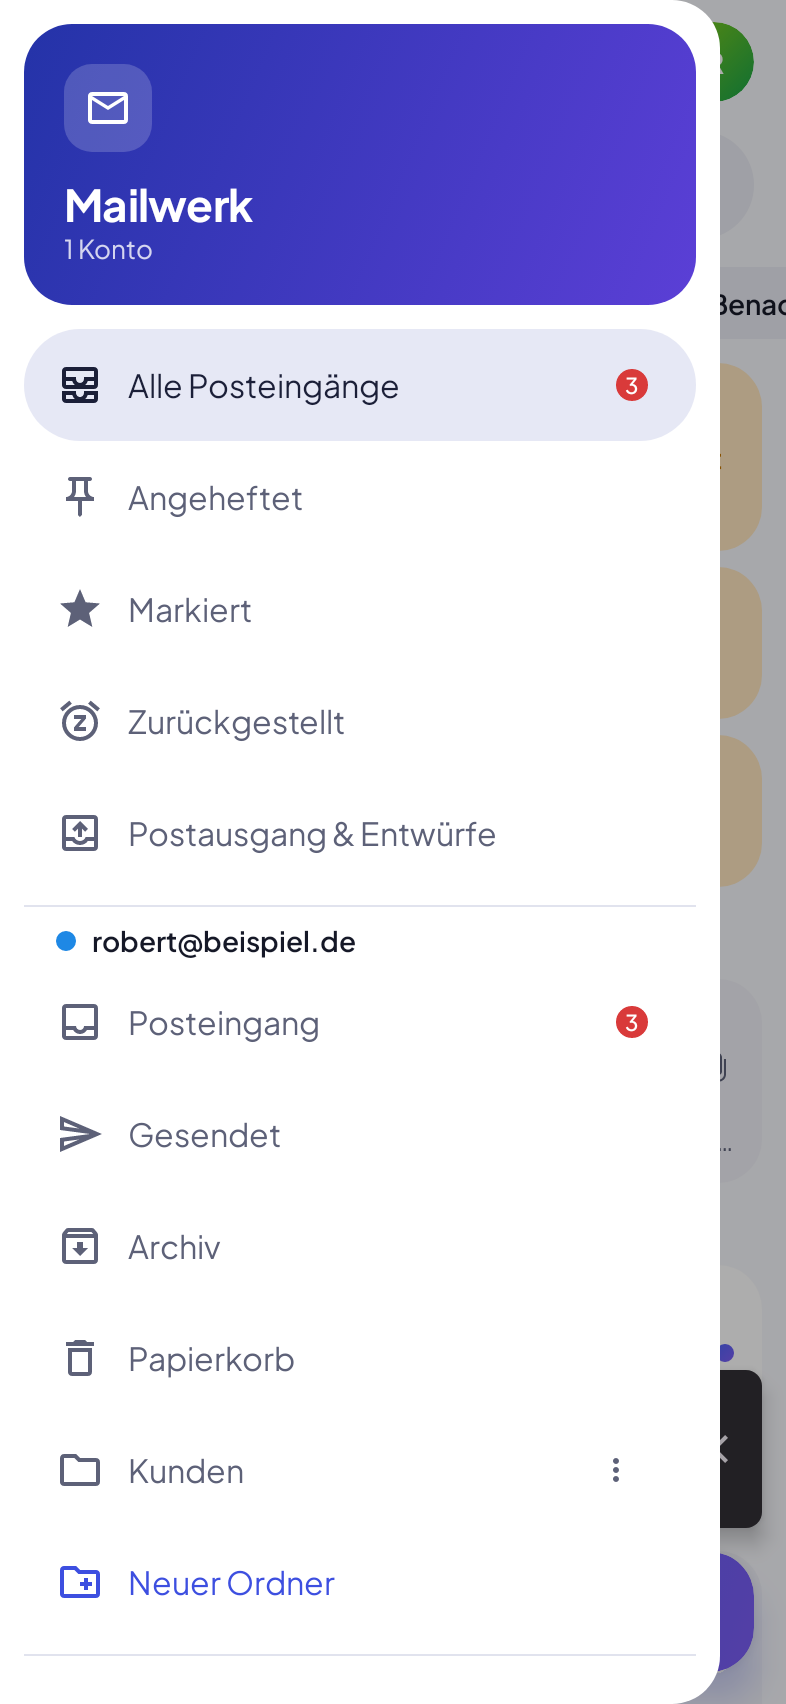
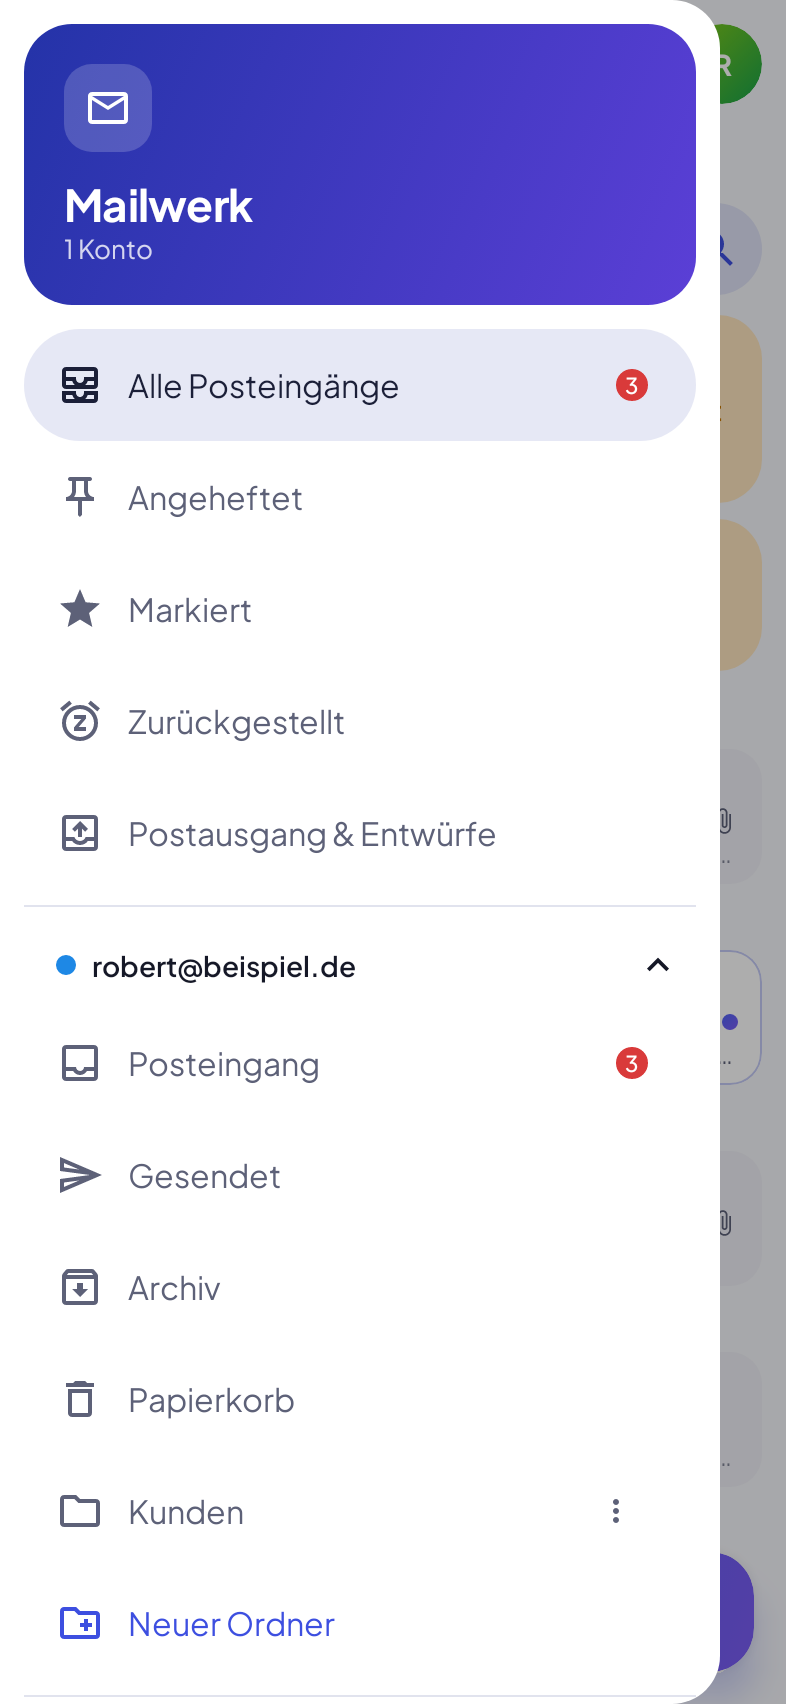
Mailwerk 1.16: einklappbare Postfächer, weiche Wisch-Animation
- Menü: Postfach-Kopf antippen klappt die Ordner auf/zu (Pfeil dreht sich, Zustand wird gemerkt,
  eingeklappt zeigt die Zahl ungelesener Mails)
- Wischen zum Archivieren/Löschen: Karte gleitet ganz hinaus, schrumpft weich zusammen, danach rutschen
  die Mails darunter geschmeidig nach (animateItem mit stabilen Schlüsseln)
- Bleibt eine Mail doch in der Liste (Rückgängig/Fehler), erscheint sie wieder
- Tests für Wischen und Einklappen

Claude-Session: https://claude.ai/code/session_01VgMNm1rcJQaJgFLHMSMcWu

diff --git a/mailwerk/app/src/main/java/app/mailwerk/ui/InboxScreen.kt b/mailwerk/app/src/main/java/app/mailwerk/ui/InboxScreen.kt
@@ -1,5 +1,14 @@
 package app.mailwerk.ui
 
+import androidx.compose.foundation.layout.fillMaxWidth
+import androidx.compose.material3.Badge
+import androidx.compose.runtime.LaunchedEffect
+import androidx.compose.ui.graphics.graphicsLayer
+import androidx.compose.material.icons.outlined.ExpandMore
+import androidx.compose.animation.core.FastOutSlowInEasing
+import androidx.compose.animation.core.Spring
+import androidx.compose.animation.core.spring
+import androidx.compose.animation.core.tween
 import app.mailwerk.tr
 
 import androidx.compose.foundation.ExperimentalFoundationApi
@@ -141,14 +150,18 @@ fun InboxScreen(vm: MainViewModel, snackHost: SnackbarHostState) {
                     else if (threads.isEmpty()) EmptyState(mailbox, category, query)
                     else LazyColumn(Modifier.fillMaxSize(), state = listState, contentPadding = PaddingValues(start = 12.dp, end = 12.dp, top = 4.dp, bottom = 110.dp)) {
                         var lastSection = ""
+                        val used = HashSet<String>()
+                        // stabile, eindeutige Schlüssel -> Einträge rutschen beim Entfernen geschmeidig nach
+                        fun uniq(k: String, idx: Int) = if (used.add(k)) k else "$k#$idx".also { used.add(it) }
                         threads.forEachIndexed { idx, t ->
                             val section = if (t.pinned) tr("Angeheftet") else sectionOf(t.latest.date)
                             if (section != lastSection) {
                                 lastSection = section
-                                item(key = "h_${idx}_$section") { SectionHeader(section) }
+                                item(key = uniq("h_$section", idx)) { Box(Modifier.animateItem(fadeInSpec = tween(220), placementSpec = spring(stiffness = Spring.StiffnessMediumLow), fadeOutSpec = tween(180))) { SectionHeader(section) } }
                             }
-                            item(key = t.latest.threadKey + t.latest.id) {
-                                SwipeRow(vm, t, onSnooze = { snoozeFor = it }) {
+                            item(key = uniq("m_${t.latest.id}", idx)) {
+                                SwipeRow(vm, t, Modifier.animateItem(fadeInSpec = tween(220), placementSpec = spring(stiffness = Spring.StiffnessMediumLow), fadeOutSpec = tween(180)),
+                                    onSnooze = { snoozeFor = it }) {
                                     ThreadRow(t, showAccount = accounts.size > 1 && mailbox !is Mailbox.InFolder, vm,
                                         onClick = { vm.push(Screen.Thread(t.latest.threadKey)) },
                                         onLong = { actionsFor = t.latest })
@@ -468,30 +481,50 @@ private fun EmptyState(mb: Mailbox, cat: Category?, q: String) {
 
 @OptIn(ExperimentalMaterial3Api::class)
 @Composable
-private fun SwipeRow(vm: MainViewModel, t: ThreadSummary, onSnooze: (Message) -> Unit, content: @Composable () -> Unit) {
+private fun SwipeRow(vm: MainViewModel, t: ThreadSummary, modifier: Modifier, onSnooze: (Message) -> Unit, content: @Composable () -> Unit) {
     val right = vm.prefs.swipeRight; val left = vm.prefs.swipeLeft
+    // Aktionen, bei denen die Mail die Liste verlässt: ganz hinausgleiten, dann zusammenschrumpfen lassen
+    fun leaves(a: SwipeAction) = a == SwipeAction.ARCHIVE || a == SwipeAction.DELETE
+    var pending by remember { mutableStateOf<SwipeAction?>(null) }
     val state = rememberSwipeToDismissBoxState(confirmValueChange = { v ->
-        when (v) {
-            SwipeToDismissBoxValue.StartToEnd -> vm.performSwipe(right, t.latest, onSnooze)
-            SwipeToDismissBoxValue.EndToStart -> vm.performSwipe(left, t.latest, onSnooze)
-            else -> {}
+        val action = when (v) { SwipeToDismissBoxValue.StartToEnd -> right; SwipeToDismissBoxValue.EndToStart -> left; else -> null }
+        when {
+            action == null -> false
+            leaves(action) -> { pending = action; true } // Karte gleitet ganz nach außen
+            else -> { vm.performSwipe(action, t.latest, onSnooze); false } // zurückfedern
         }
-        false
     }, positionalThreshold = { it * 0.35f })
-    SwipeToDismissBox(state, enableDismissFromStartToEnd = right != SwipeAction.NONE, enableDismissFromEndToStart = left != SwipeAction.NONE,
-        modifier = Modifier.padding(vertical = 2.dp),
-        backgroundContent = {
-            val dir = state.dismissDirection
-            val action = if (dir == SwipeToDismissBoxValue.StartToEnd) right else left
-            val (color, icon) = swipeLook(action)
-            if (dir != SwipeToDismissBoxValue.Settled) Box(Modifier.fillMaxSize().clip(RoundedCornerShape(16.dp)).background(color).padding(horizontal = 26.dp),
-                contentAlignment = if (dir == SwipeToDismissBoxValue.StartToEnd) Alignment.CenterStart else Alignment.CenterEnd) {
-                Row(verticalAlignment = Alignment.CenterVertically) {
-                    Icon(icon, null, tint = Color.White); Spacer(Modifier.width(8.dp))
-                    Text(action.label, color = Color.White, style = MaterialTheme.typography.titleSmall)
+    val visible = remember { androidx.compose.animation.core.MutableTransitionState(true) }
+    // nach dem Hinausgleiten: Höhe weich auf 0, dann erst ausführen -> die Mails darunter rutschen geschmeidig hoch
+    LaunchedEffect(pending, state.currentValue) {
+        if (pending != null && state.currentValue != SwipeToDismissBoxValue.Settled) visible.targetState = false
+    }
+    LaunchedEffect(visible.isIdle, visible.currentState) {
+        val a = pending
+        if (a != null && visible.isIdle && !visible.currentState) {
+            pending = null; vm.performSwipe(a, t.latest, onSnooze)
+            // Mail ist nach kurzer Zeit immer noch da (z. B. Rückgängig oder Fehler)? Wieder zeigen statt unsichtbar lassen
+            kotlinx.coroutines.delay(1500)
+            state.reset(); visible.targetState = true
+        }
+    }
+    AnimatedVisibility(visible, modifier = modifier,
+        exit = shrinkVertically(animationSpec = tween(260, easing = FastOutSlowInEasing)) + fadeOut(tween(200))) {
+        SwipeToDismissBox(state, enableDismissFromStartToEnd = right != SwipeAction.NONE, enableDismissFromEndToStart = left != SwipeAction.NONE,
+            modifier = Modifier.padding(vertical = 2.dp),
+            backgroundContent = {
+                val dir = state.dismissDirection
+                val action = if (dir == SwipeToDismissBoxValue.StartToEnd) right else left
+                val (color, icon) = swipeLook(action)
+                if (dir != SwipeToDismissBoxValue.Settled) Box(Modifier.fillMaxSize().clip(RoundedCornerShape(16.dp)).background(color).padding(horizontal = 26.dp),
+                    contentAlignment = if (dir == SwipeToDismissBoxValue.StartToEnd) Alignment.CenterStart else Alignment.CenterEnd) {
+                    Row(verticalAlignment = Alignment.CenterVertically) {
+                        Icon(icon, null, tint = Color.White); Spacer(Modifier.width(8.dp))
+                        Text(action.label, color = Color.White, style = MaterialTheme.typography.titleSmall)
+                    }
                 }
-            }
-        }) { content() }
+            }) { content() }
+    }
 }
 
 private fun swipeLook(a: SwipeAction): Pair<Color, ImageVector> = when (a) {
@@ -654,12 +687,25 @@ private fun Drawer(vm: MainViewModel, close: () -> Unit) {
             entry(tr("Markiert"), Icons.Outlined.Star, current is Mailbox.Flagged) { vm.selectMailbox(Mailbox.Flagged) }
             entry(tr("Zurückgestellt"), Icons.Outlined.Snooze, current is Mailbox.Snoozed) { vm.selectMailbox(Mailbox.Snoozed) }
             entry(tr("Postausgang & Entwürfe"), Icons.Outlined.Outbox, false, vm.db.outbox().size) { vm.push(Screen.Outbox) }
+            var expanded by remember { mutableStateOf(vm.prefs.drawerExpanded ?: if (accounts.size == 1) accounts.map { it.id }.toSet() else emptySet()) }
             accounts.forEach { a ->
                 HorizontalDivider(Modifier.padding(vertical = 8.dp))
-                Row(verticalAlignment = Alignment.CenterVertically, modifier = Modifier.padding(start = 16.dp, bottom = 4.dp)) {
+                val open = a.id in expanded
+                val arrow by androidx.compose.animation.core.animateFloatAsState(if (open) 180f else 0f, label = "pfeil")
+                val unread = folders[a.id].orEmpty().filter { it.role == FolderRole.INBOX }.sumOf { it.unread }
+                // Postfach-Kopf: antippen klappt die Ordner auf/zu
+                Row(verticalAlignment = Alignment.CenterVertically, modifier = Modifier.fillMaxWidth().clip(RoundedCornerShape(14.dp))
+                    .clickable {
+                        expanded = if (open) expanded - a.id else expanded + a.id
+                        vm.prefs.drawerExpanded = expanded
+                    }.padding(start = 16.dp, end = 8.dp, top = 10.dp, bottom = 10.dp)) {
                     Box(Modifier.size(10.dp).background(Color(a.color), CircleShape)); Spacer(Modifier.width(8.dp))
-                    Text(a.email, style = MaterialTheme.typography.titleSmall, maxLines = 1, overflow = TextOverflow.Ellipsis)
+                    Text(a.email, Modifier.weight(1f), style = MaterialTheme.typography.titleSmall, maxLines = 1, overflow = TextOverflow.Ellipsis)
+                    if (!open && unread > 0) Badge { Text("$unread") }
+                    Icon(Icons.Outlined.ExpandMore, if (open) tr("Einklappen") else tr("Aufklappen"), Modifier.padding(start = 6.dp).size(22.dp).graphicsLayer { rotationZ = arrow })
                 }
+                AnimatedVisibility(open, enter = expandVertically(tween(240)) + fadeIn(tween(200)), exit = shrinkVertically(tween(220)) + fadeOut(tween(160))) {
+                Column {
                 folders[a.id].orEmpty().forEach { f ->
                     val icon = when (f.role) {
                         FolderRole.INBOX -> Icons.Outlined.Inbox; FolderRole.SENT -> Icons.AutoMirrored.Outlined.Send
@@ -673,6 +719,8 @@ private fun Drawer(vm: MainViewModel, close: () -> Unit) {
                 }
                 NavigationDrawerItem(label = { Text(tr("Neuer Ordner"), color = MaterialTheme.colorScheme.primary) }, selected = false,
                     icon = { Icon(Icons.Outlined.CreateNewFolder, null, tint = MaterialTheme.colorScheme.primary) }, onClick = { newFolderFor = a.id })
+                }
+                }
             }
             HorizontalDivider(Modifier.padding(vertical = 8.dp))
             entry(tr("Konto hinzufügen"), Icons.Outlined.Add, false) { vm.push(Screen.AccountSetup()) }

diff --git a/mailwerk/app/src/test/java/app/mailwerk/SwipeAndDrawerTest.kt b/mailwerk/app/src/test/java/app/mailwerk/SwipeAndDrawerTest.kt
@@ -1,0 +1,66 @@
+package app.mailwerk
+
+import androidx.compose.ui.test.hasContentDescription
+import androidx.compose.ui.test.junit4.createEmptyComposeRule
+import androidx.compose.ui.test.onAllNodesWithText
+import androidx.compose.ui.test.onFirst
+import androidx.compose.ui.test.performClick
+import androidx.compose.ui.test.performTouchInput
+import androidx.compose.ui.test.swipeRight
+import androidx.test.core.app.ActivityScenario
+import androidx.test.core.app.ApplicationProvider
+import app.mailwerk.data.Db
+import app.mailwerk.ui.MainActivity
+import org.junit.Assert.assertEquals
+import org.junit.Assert.assertTrue
+import org.junit.Rule
+import org.junit.Test
+import org.junit.runner.RunWith
+import org.robolectric.RobolectricTestRunner
+import org.robolectric.annotation.Config
+import org.robolectric.annotation.GraphicsMode
+
+@RunWith(RobolectricTestRunner::class)
+@GraphicsMode(GraphicsMode.Mode.NATIVE)
+@Config(qualifiers = "w393dp-h852dp-xhdpi")
+class SwipeAndDrawerTest {
+    @org.junit.Before fun deLocale() { java.util.Locale.setDefault(java.util.Locale.GERMAN) }
+    @get:Rule val rule = createEmptyComposeRule()
+
+    @Test fun swipeArchiveSlidesOutAndListCloses() {
+        ScreenshotTest.seed()
+        val ctx = ApplicationProvider.getApplicationContext<android.content.Context>()
+        val db = Db.get(ctx)
+        ActivityScenario.launch(MainActivity::class.java)
+        rule.waitForIdle()
+        assertEquals(1, rule.onAllNodesWithText("Termin nächste Woche", useUnmergedTree = true).fetchSemanticsNodes().size)
+        rule.mainClock.autoAdvance = false
+        rule.onAllNodesWithText("Termin nächste Woche", useUnmergedTree = true).onFirst().performTouchInput { swipeRight() }
+        // mitten in der Animation ist die Mail noch da (gleitet/schrumpft), noch nichts ausgeführt
+        rule.mainClock.advanceTimeBy(120)
+        val inbox = db.listMessages(null, null, null).count { it.subject == "Termin nächste Woche" }
+        assertEquals(1, inbox)
+        rule.mainClock.autoAdvance = true
+        rule.waitForIdle(); Thread.sleep(400); rule.waitForIdle()
+        // danach archiviert und aus der Liste verschwunden
+        assertEquals(0, db.listMessages(null, null, null).count { it.subject == "Termin nächste Woche" })
+        assertEquals(0, rule.onAllNodesWithText("Termin nächste Woche", useUnmergedTree = true).fetchSemanticsNodes().size)
+        assertTrue(rule.onAllNodesWithText("Steuerbüro Klein", substring = true, useUnmergedTree = true).fetchSemanticsNodes().isNotEmpty())
+    }
+
+    @Test fun drawerAccountCollapses() {
+        ScreenshotTest.seed()
+        ActivityScenario.launch(MainActivity::class.java)
+        rule.waitForIdle()
+        rule.onAllNodes(hasContentDescription("Menü")).onFirst().performClick()
+        rule.waitForIdle()
+        assertTrue(rule.onAllNodesWithText("Gesendet", useUnmergedTree = true).fetchSemanticsNodes().isNotEmpty())
+        rule.onAllNodes(hasContentDescription("Einklappen"), useUnmergedTree = true).onFirst().performClick()
+        rule.waitForIdle()
+        assertEquals(0, rule.onAllNodesWithText("Gesendet", useUnmergedTree = true).fetchSemanticsNodes().size)
+        rule.onAllNodes(hasContentDescription("Aufklappen"), useUnmergedTree = true).onFirst().performClick()
+        rule.waitForIdle()
+        assertTrue(rule.onAllNodesWithText("Gesendet", useUnmergedTree = true).fetchSemanticsNodes().isNotEmpty())
+        ApplicationProvider.getApplicationContext<android.content.Context>().let { app.mailwerk.data.Prefs(it).drawerExpanded = null }
+    }
+}

diff --git a/mailwerk/app/src/main/java/app/mailwerk/data/Prefs.kt b/mailwerk/app/src/main/java/app/mailwerk/data/Prefs.kt
@@ -110,6 +110,11 @@ class Prefs(ctx: Context) {
     fun syncError(accountId: Long): String? = if (p.getBoolean("sync_ok_$accountId", true)) null else p.getString("sync_err_$accountId", null)
     fun lastSync(accountId: Long): Long = p.getLong("sync_time_$accountId", 0)
 
+    /** Im Menü aufgeklappte Postfächer (Konto-IDs); null = noch nie eingestellt */
+    var drawerExpanded: Set<Long>?
+        get() = p.getStringSet("drawer_expanded", null)?.mapNotNull { it.toLongOrNull() }?.toSet()
+        set(v) = p.edit().putStringSet("drawer_expanded", v?.map { "$it" }?.toSet()).apply()
+
     var initialSyncDays: Int
         get() = p.getInt("sync_days", 60)
         set(v) = p.edit().putInt("sync_days", v).apply()

diff --git a/mailwerk/app/src/main/java/app/mailwerk/I18n.kt b/mailwerk/app/src/main/java/app/mailwerk/I18n.kt
@@ -10,6 +10,8 @@ object I18n {
     fun german(): Boolean = Locale.getDefault().language == "de"
 
     val en: Map<String, String> = hashMapOf(
+        "Einklappen" to "Collapse",
+        "Aufklappen" to "Expand",
         "Mailwerk-Update bereit" to "Mailwerk update ready",
         "Zum Installieren tippen" to "Tap to install",
         "Mailwerk-Update nicht installiert" to "Mailwerk update not installed",
